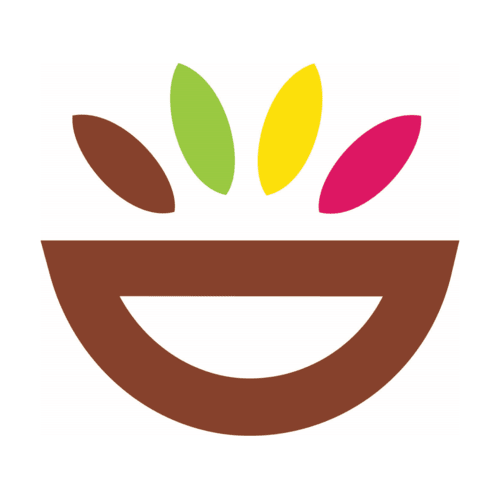
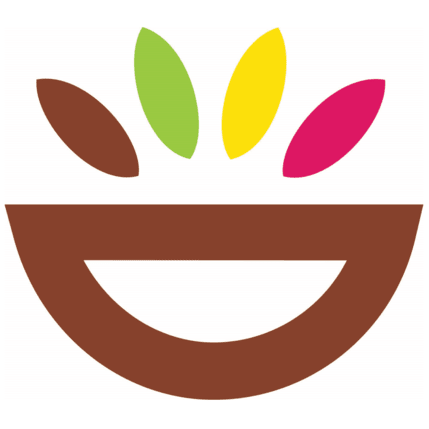
updated events

diff --git a/_includes/services.html b/_includes/services.html
@@ -7,16 +7,22 @@
                     <h3 class="section-subheading text-muted">Updated regularly with the latest club events!</h3>
                 </div>
             </div>
-            <div class="row text-center">
-                <div class="col-md-4">
-                    <img src="/img/events/event1.png" alt="Placer Food Bank logo" width="140">
 
-                    <!--
+            <!--
+                    the code for a locked block of event is
+                <div class="col-md-4">
                     <span class="fa-stack fa-4x">
                         <i class="fa fa-circle fa-stack-2x text-primary"></i>
-                        <i class="fa fa-shopping-cart fa-stack-1x fa-inverse"></i>
+                        <i class="fa-solid fa-lock fa-stack-1x fa-inverse"></i>
                     </span>
-                    -->
+                    <h4 class="service-heading">TBA</h4>
+                    <p class="text-muted">TBA</p>
+                </div>
+            -->
+
+            <div class="row text-center">
+                <div class="col-md-4">
+                    <img src="/img/events/event1.png" alt="Placer Food Bank logo" width="125">
                     <h4 class="service-heading">Nov. 20th - Placer Food Bank Volunteering</h4>
                     <p class="text-muted">Sign-up form and details to be announced.</p>
                 </div>
